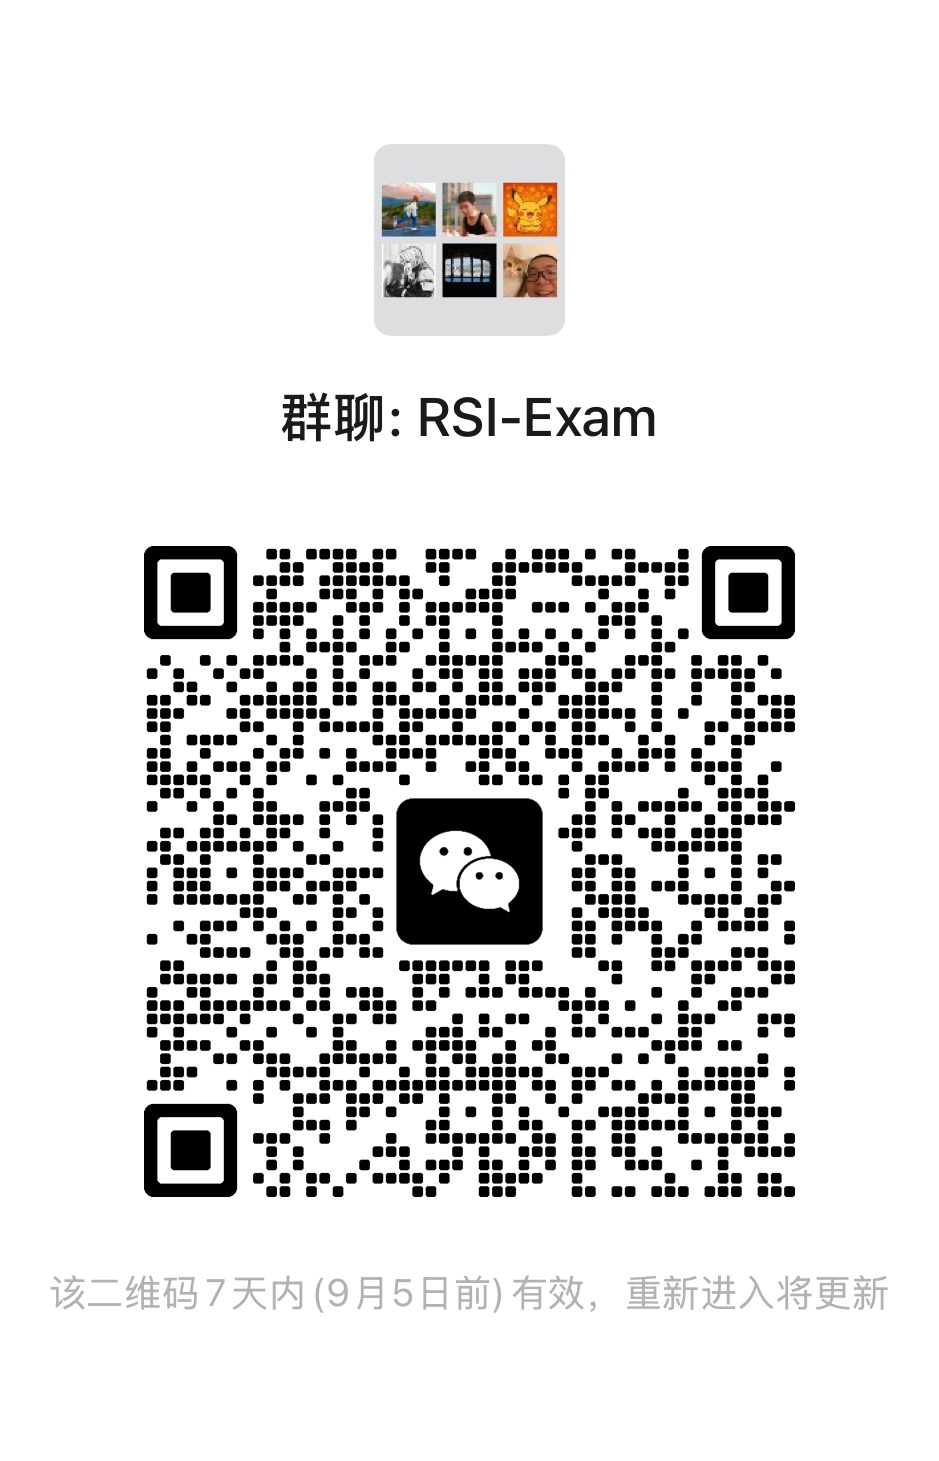
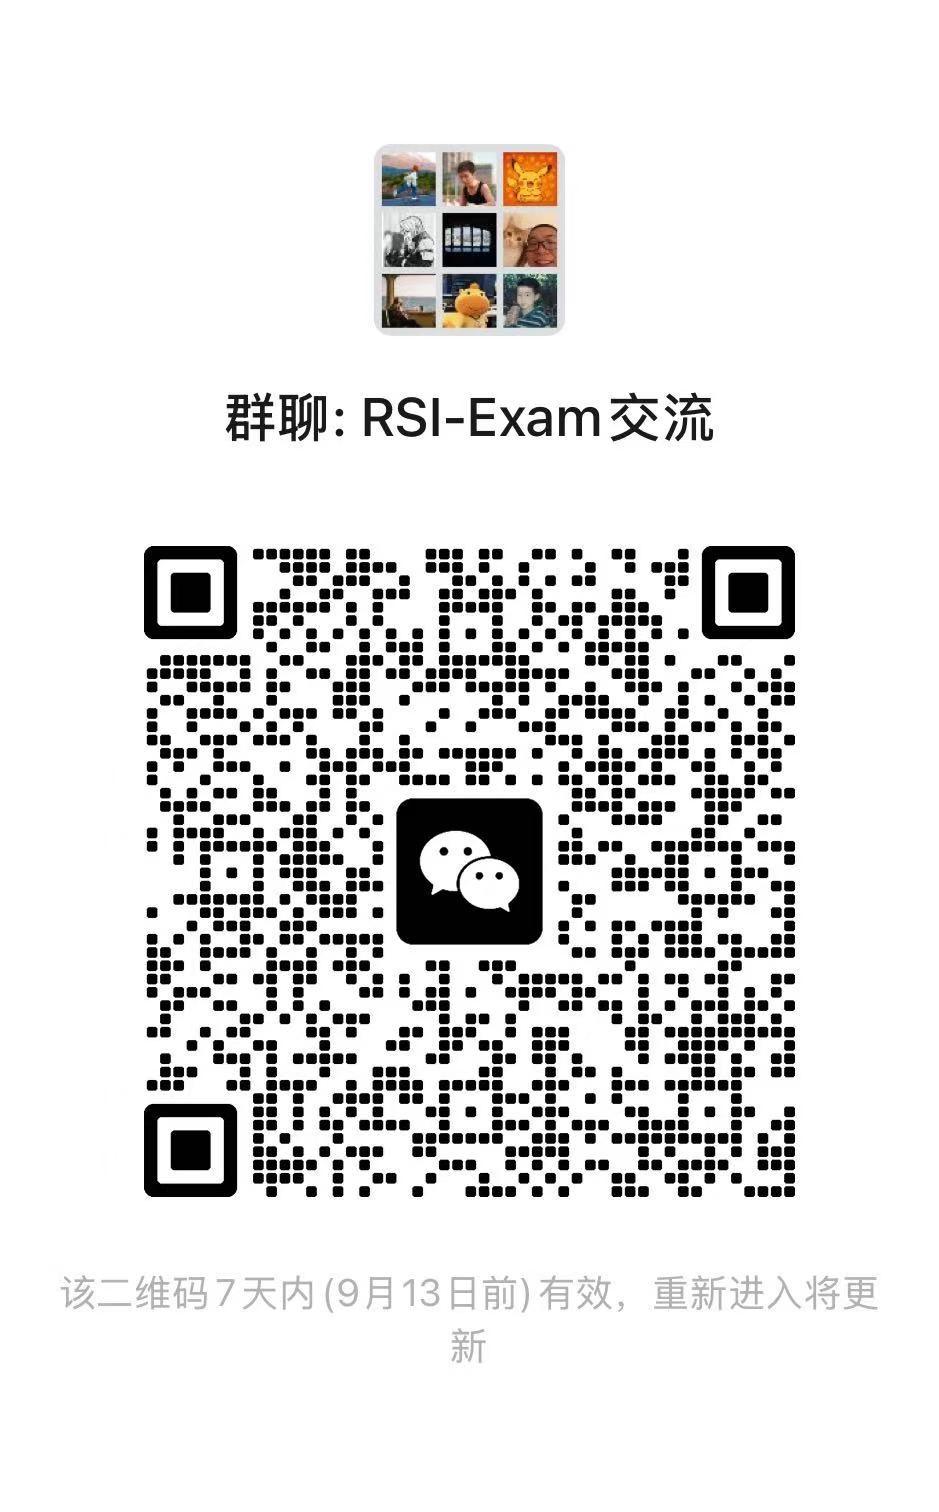
Update Discord invite link and refresh WeChat group QR code
Claude-Session: https://claude.ai/code/session_0198YAqJcjFrkKJRhthdtDKA

Changed region(s): [[0.0618, 0.3388, 0.9574, 0.8932], [0.2471, 0.0924, 0.7721, 0.308]]

diff --git a/README.md b/README.md
@@ -11,7 +11,7 @@
 <p align="center">
   <a href="https://rsi-exam.ai"><img src="https://img.shields.io/badge/Website-rsi--exam.ai-2c5f5d" alt="Website"></a>
   <a href="https://huggingface.co/datasets/RSI-Exam/RSI-Exam"><img src="https://img.shields.io/badge/%F0%9F%A4%97%20HuggingFace-RSI--Exam-ffcc4d" alt="HuggingFace"></a>
-  <a href="https://discord.gg/FBzhepyE"><img src="https://img.shields.io/badge/Discord-join-5865F2?logo=discord&logoColor=white" alt="Discord"></a>
+  <a href="https://discord.gg/EfZHARpT7Z"><img src="https://img.shields.io/badge/Discord-join-5865F2?logo=discord&logoColor=white" alt="Discord"></a>
   <a href="LICENSE"><img src="https://img.shields.io/badge/License-MIT-yellow.svg" alt="MIT License"></a>
   <a href="docs/wechat.md"><img src="https://img.shields.io/badge/WeChat-group-07C160?logo=wechat&logoColor=white" alt="WeChat"></a>
 </p>
@@ -35,7 +35,7 @@ remaining 53 are held back. Download them into `tasks/`, then pass a task direct
 📣 **Call for contributors.** Write a task from your own field, or review one. Full details,
 timelines and the contribution form are at
 [rsi-exam.ai/contribute.html](https://rsi-exam.ai/contribute.html); join us on
-[Discord](https://discord.gg/FBzhepyE) or in the [WeChat group](docs/wechat.md).
+[Discord](https://discord.gg/EfZHARpT7Z) or in the [WeChat group](docs/wechat.md).
 
 ## 🔥 News
 
@@ -405,4 +405,4 @@ MIT. See [LICENSE](LICENSE).
 [contact@rsi-exam.ai](mailto:contact@rsi-exam.ai).
 
 **For everything else** — questions, feedback, contributions — join us on
-[Discord](https://discord.gg/FBzhepyE) or in the [WeChat group](docs/wechat.md).
+[Discord](https://discord.gg/EfZHARpT7Z) or in the [WeChat group](docs/wechat.md).
